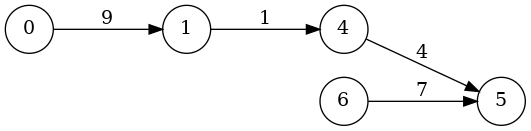
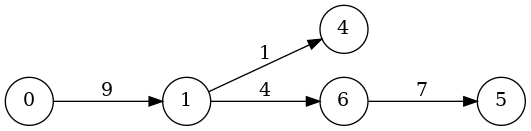
pdoc

diff --git a/pygraphblas/matrix.py b/pygraphblas/matrix.py
@@ -762,8 +762,8 @@ class Matrix:
         ![Matrix_emult_A.png](../imgs/Matrix_emult_A.png)
 
         >>> B = Matrix.from_lists(
-        ...    [0, 1, 4, 6],
-        ...    [1, 4, 5, 5],
+        ...    [0, 1, 1, 6],
+        ...    [1, 4, 6, 5],
         ...    [9, 1, 4, 7], 7, 7)
         >>> g = draw_graph(B, filename='/docs/imgs/Matrix_emult_B')
 
